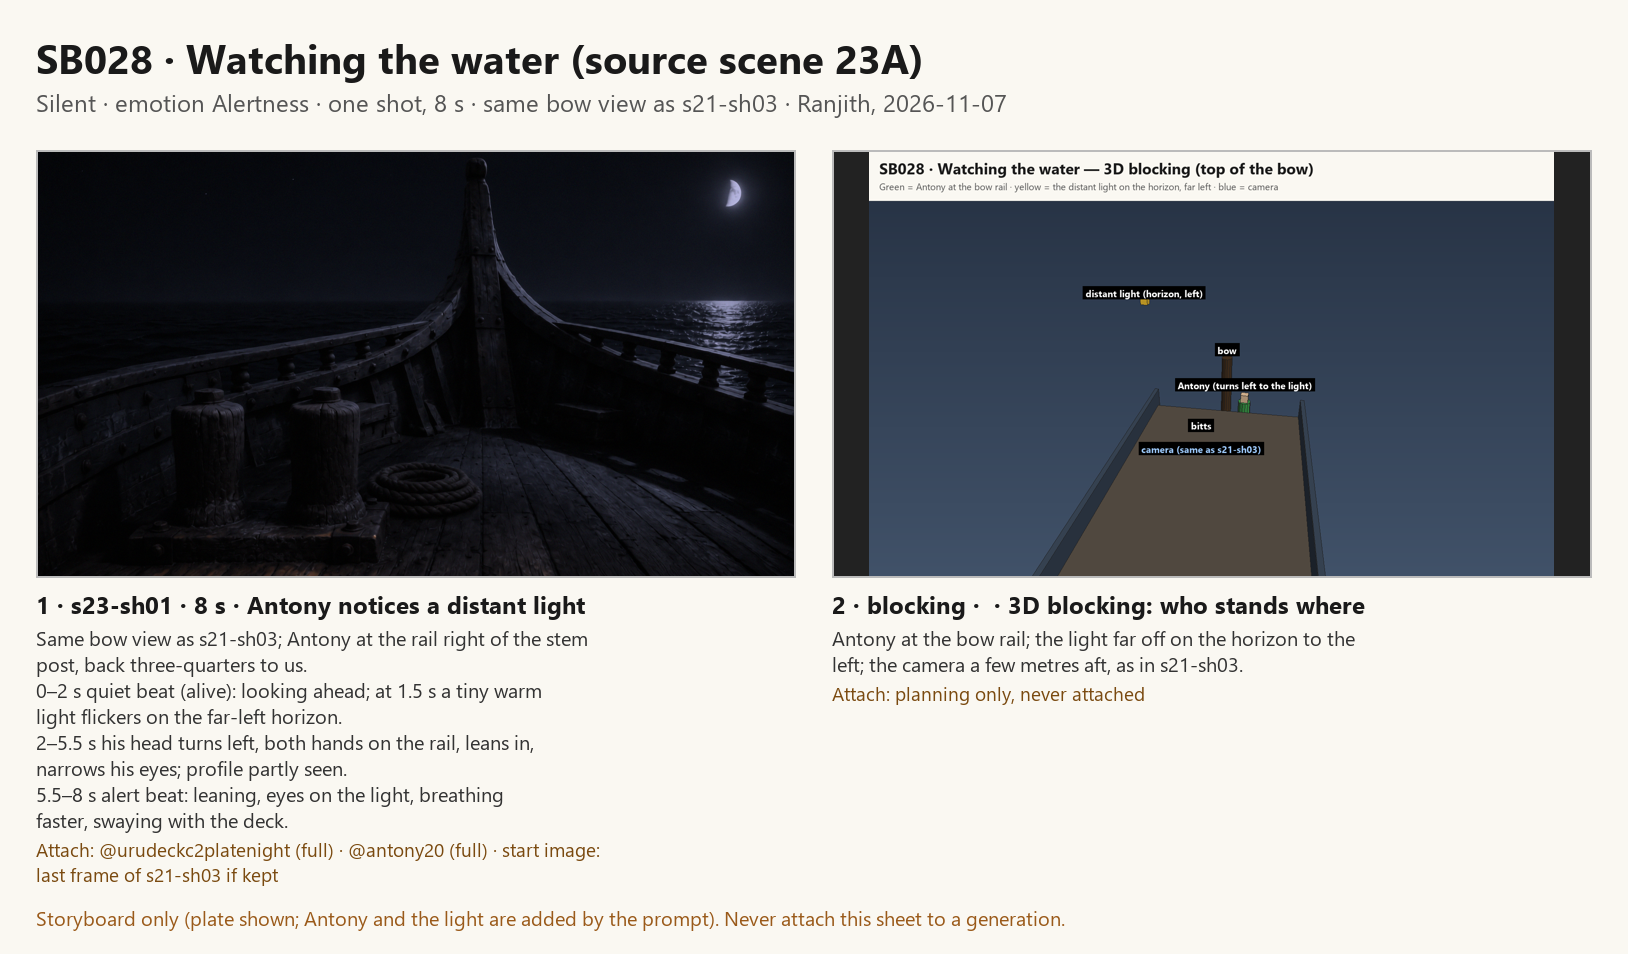
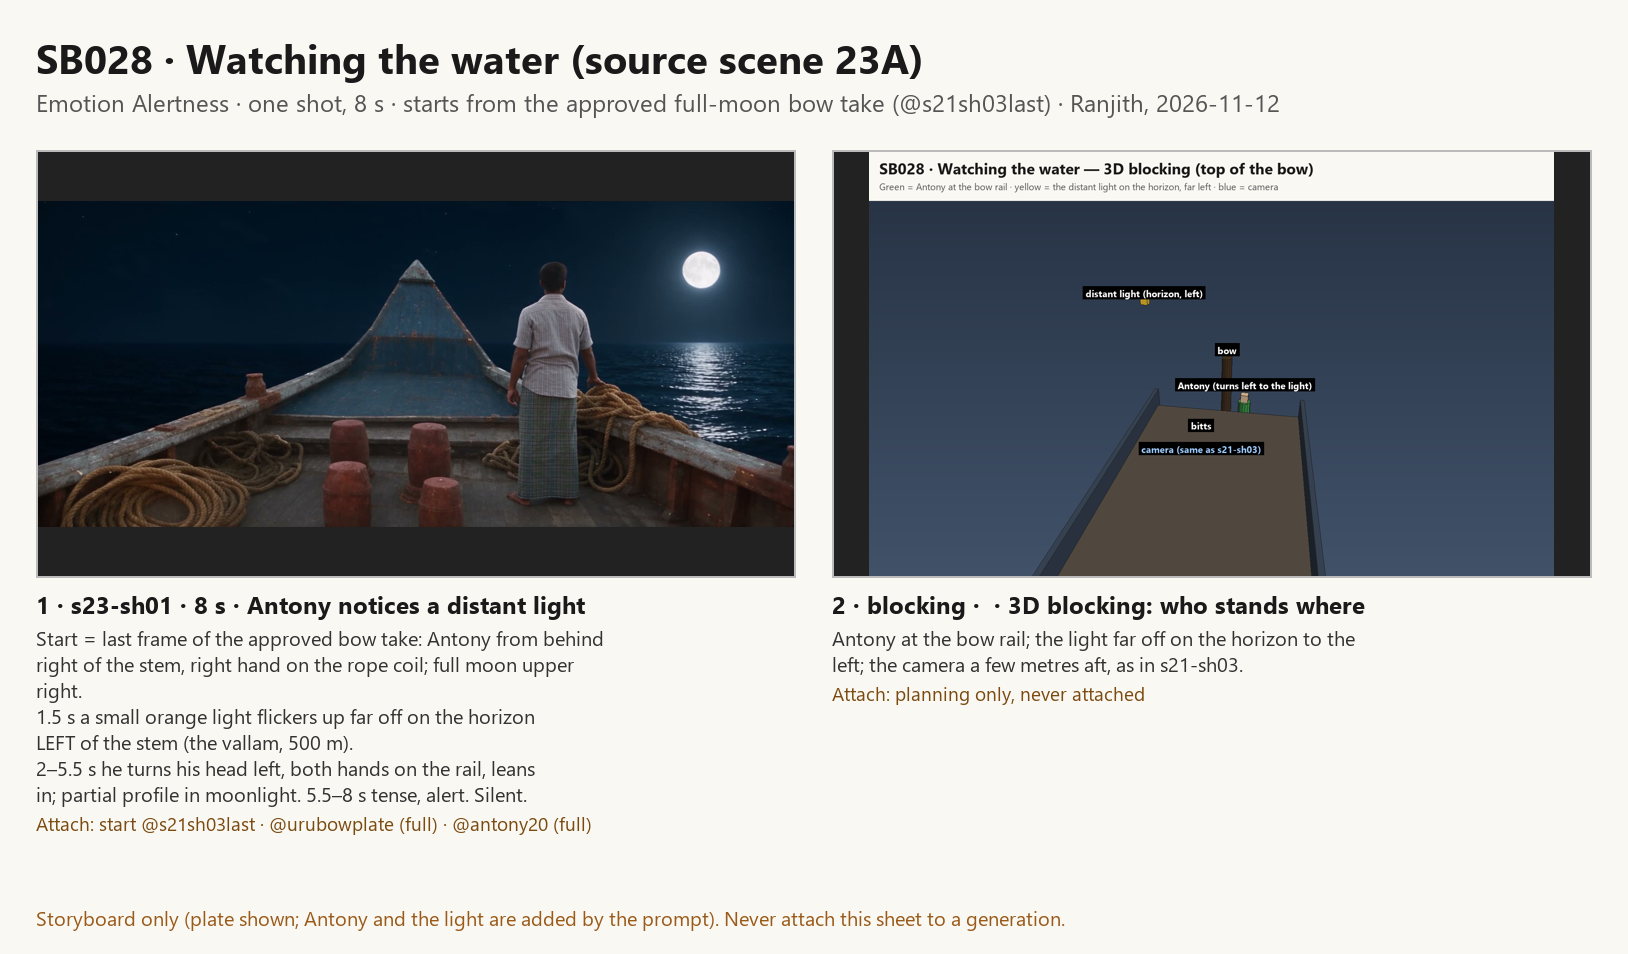
Ranjith: shot: s23-sh01 v3 (from the approved bow take)

diff --git a/scenes/showreel/s23-sh01.md b/scenes/showreel/s23-sh01.md
@@ -1,71 +1,79 @@
-# Shot s23-sh01 · SB028 Watching the water: Antony notices a distant light (8 s, silent) — v2
-Status: **ready, proposal** (v2, full-moon redo, Ranjith 2026-11-12; v1 kept in `retired/s23-sh01-v1.md`). Start images come from the new full-moon takes.
+# Shot s23-sh01 · SB028 Watching the water: Antony notices a distant light (8 s, silent) — v3
+Status: **ready, proposal** (v3, Ranjith 2026-11-12: starts from the last frame of his approved full-moon bow take; v2 kept in `retired/s23-sh01-v2.md`). QA 90.
 Storyboard: SB028 · source scene 23A · emotion "Alertness" (silent shot, no tag) · storyboard `storyboards/sb028-storyboard.png` (with 3D blocking)
 Created by: Ranjith, 2026-11-07
-Camera position: urudeck-c2-bow-night (same as s21-sh03)
-References: @urubowplate (full), @antony20 (full)
-Reference sweep (left out, and why): @aashaan and the sleepers: not in this view (L27). @antonybag: not on him on night watch. @uru: its own bow (L51). Start image: the last frame of the approved s21-sh03 take if you have it (same camera, L52).
-Follows: s21-sh03 v2 (approved: Antony on watch at the bow). Next: SB029, the distant light is a small boat burning.
+Camera position: urudeck-c2-bow-night (same as the s21-sh03 full-moon take), locked
+References: start image = `approved/s21-sh03-last-fullmoon.jpg` (@s21sh03last, required, L52) · @urubowplate (full) · @antony20 (full)
+Reference sweep (left out, and why): @urudeckc2platenight, @urudeckc2platefullmoon: retired bows (L143). @burningvallamnomoon: at this first moment only a small flicker on the horizon; attached from s23-sh02 when it reads as a boat. @aashaan and the sleepers: aft, behind the camera (L27). @antonybag: not on him on night watch.
+Follows: s21-sh03 full-moon take ("Antony keeps watch at the bow by moonlight", approved). Next: s23-sh02 (SB029, the light is a burning boat; slow push-in).
 
 ## Prompt
 ```
 SCENE
-Late at night under a full moon, 1998, on the open sea, at the bow of the wooden cargo uru. One continuous shot. Antony is keeping watch at the bulwark when a tiny warm light appears far off on the moonlit horizon at the left. He notices it, turns his head toward it and leans forward to look, alert. Nobody speaks.
+Full-moon night, 1998, the open sea off Kerala, at the bow of our wooden cargo uru. One continuous shot, 8 seconds, carrying straight on from the start image: same camera, same bow, same moon, seconds later. Antony is keeping watch at the bow when, far off on the horizon at the LEFT, a small warm orange light flares up. He notices it, turns his head toward it and leans forward over the rail to look, alert. Nobody speaks.
+
+MEMORY (the same night in every shot; nothing changes unless this block says so)
+Place: our bow exactly as on @urubowplate: the closed blue-painted triangular bow deck rising to the pointed stem, its paint worn and rust-streaked; low blue bulwarks with a flat weathered rail and red-brown posts; four red-brown mooring bitts in pairs in the foreground; heavy coils of golden coir rope on the deck at the left and on the right-hand bulwark.
+Light: a clear full-moon night; a bright, perfectly round full moon high at the upper RIGHT, its silver path glittering on the deep blue sea at the right. Deep navy sky with a few stars, a deep blue sea; cool silver-blue moonlight across the deck so wood, rope, skin and cloth read clearly, soft moon shadows. Blue and readable, never black, never grey.
+People: Antony: 24, lean, sun-browned, short black hair; grey-beige short-sleeve shirt with thin vertical stripes, green-grey checked mundu, barefoot, bare wrists. Alone at the bow, one of him, never a copy or a stranger.
+Fire: one small fishing vallam starting to burn 500 m away, ahead and to the LEFT of the uru: at first only a small orange flicker low on the horizon, growing into small but clear flames on a low dark hull, never a star-like dot, never close.
+NOW: Antony stands at the right-hand bulwark just right of the stem, his right hand resting on the rope coil on the rail, his back to the camera, looking straight ahead; the crew asleep aft and Aashaan at the wheel, behind the camera, out of this view; tired but awake, at ease.
 
 ACTIVE REFERENCES
-@urubowplate (0.0s–8.0s, full): our bow exactly as on this plate: the closed blue-painted triangular bow deck rising to the pointed stem, low blue bulwarks with red-brown posts, red-brown mooring bitts in pairs, big coir rope coils, the mast at the left with a hurricane lantern at its foot, the deep blue sea, a deep navy sky; the round full moon high on the right just beyond the frame edge, its silver path on the water at the right. 100% matches the reference.
-@antony20 (0.0s–8.0s, full): Antony, 24, lean, sun-browned, short black hair; exactly the reference clothes: short-sleeve lavender-grey and white striped shirt and grey-green checked mundu, never a plain white shirt or trousers; thin silver chain, barefoot. 100% matches the reference.
+Start image (0.0s): the exact first frame: the last frame of the previous shot. Same bow, same stem, same bitts and rope coils, Antony in the same place and pose, the same moon in the same place. 100% matches the reference.
+@urubowplate (0.0s–8.0s, full): our bow exactly as in the reference and as in MEMORY. 100% matches the reference.
+@antony20 (0.0s–8.0s, full): Antony; his face only as a partial profile when he turns; clothes exactly as in MEMORY. 100% matches the reference.
 
 WHAT IS IN FRAME
-Only the bow, the pointed stem, the bulwarks, the bitts and coiled rope, the deep blue sea and horizon, the moon, a tiny distant warm light on the horizon at the left, and Antony. Every frame looks like the film itself, with nothing from the making of it. No lettering anywhere.
-
-THE BOW (0.0s–8.0s)
-Seen from the foredeck a few metres aft of the bow, at standing height, looking forward, exactly as in the reference and as in the previous shot. Antony stands at the bulwark on the right of the pointed stem, his back three-quarters to the view, his left hand on the rail. Far away on the horizon at the LEFT of the pointed stem, a single tiny warm orange point of light, no bigger than a star, flickering; nothing else of it can be made out.
+Only the bow: the blue triangular bow deck and pointed stem in the centre, the bitts and rope coils in the foreground, the bulwarks running to the stem on both sides; the deep blue sea to the horizon; the full moon upper right with its silver path; Antony at the right-hand bulwark; and, from 1.5s, the small orange light far off on the horizon LEFT of the stem. Nothing else on the water. No lettering anywhere.
 
 FIRST FRAME
-Antony at the bulwark, back three-quarters to the view, left hand on the rail, looking straight ahead at the sea; the horizon at the left still dark.
+The start image exactly: Antony from behind at the right-hand bulwark right of the stem, right hand on the rope coil; the horizon at the left still dark and empty.
 
 FORMAT MODE
 One continuous shot; the camera does not cut on its own. The video runs the full 8 seconds.
 
 OPTICS
-WS 63°, natural depth of field: Antony, the pointed stem and the horizon with the tiny light all readable.
+WS about 63°, exactly the framing of the start image; natural depth of field: Antony, the stem, the horizon and the far light all readable.
 
 CAMERA
-A locked-off, perfectly steady view at standing height, rising and falling very gently with the swell, level horizon.
+Locked off at standing height exactly as in the start image; the camera rides with the boat, so the bow stays steady in the frame and only the sea and the moon's path move; level horizon.
 
 ACTION
-0.0s to 2.0s: A quiet beat, never frozen: Antony looks out ahead, breathing in his shoulders, swaying gently with the roll, his weight shifting on his bare feet; at about 1.5s the tiny warm light flickers up on the horizon at the left.
-2.0s to 5.5s: He catches it: his head turns to the left toward the light and his body follows, his right hand joining his left on the rail; he leans forward a little, his head tilting, narrowing his eyes, his profile turning partly into view, the light flickering and steadying.
-5.5s to 8.0s: A quiet, alert beat: he stays leaning on the rail, eyes fixed on the distant light, breathing a little faster, his shoulders tense, swaying with the deck; he keeps living the whole time.
+0.0s to 1.5s: A quiet beat, never frozen: Antony looks out ahead, breathing in his shoulders, swaying gently with the swell, his weight shifting on his bare feet.
+1.5s: Far off on the horizon at the LEFT of the stem a small warm orange light flickers up, low on the water.
+2.0s to 5.5s: He catches it: his head turns to the left toward the light and his body follows, his left hand joining his right on the rail; he leans forward a little, narrowing his eyes, his face turning into a partial profile, lit silver from the moon on the right; the light flickers, steadies and grows into small flames.
+5.5s to 8.0s: A tense, alert beat: he stays leaning on the rail, eyes fixed on the far light, breathing faster, shoulders tight, swaying with the deck; alive the whole time.
 
 PERFORMANCE
 Alertness: a tired watchman suddenly awake; curiosity turning to unease, all in the body and a half-seen profile. Natural and loose, never stiff, never a statue, never theatrical.
 
 PHYSICS
-The bow rises and falls on the gentle swell; his shirt and mundu stir in the night breeze; the distant light flickers and sways with the swell, sometimes dipping behind a wave; the moon's path shimmers on the water.
+The sea moves; the moon's path shimmers and breaks on the swell; his shirt and mundu stir in the night breeze; the far light flickers and dips behind the swell, then shows again.
 
 LIGHTING
-A clear full-moon night: cool silver-blue full-moon light from the full moon high on the right, a thin rim on Antony's right shoulder and hair; the deck in soft blue moon shadow; the distant light only a tiny warm point on the horizon that lights nothing near. No glossy or polished look. Blue and readable, never black, never grey.
+As in MEMORY: silver-blue moonlight from the upper right on the blue bow deck, the bitts, the rope and Antony's right side and hair; soft moon shadows falling to the left; the far fire a small warm point of orange that lights nothing near.
 
 AUDIO
-Sound effects only — natural on-location sound, the soundtrack carries no music. No music at all: no score, no background music, no song, no humming, and no cinematic sound design: no riser, no whoosh, no swell, no rumble, no transition sound. Ambient at a steady level that does not build. No spoken words and no voices.
-0.0s–8.0s: the bow cutting through the swell, water hissing along the hull, the pointed stem creaking, a soft breeze, the faint creak of the rigging behind.
-2.0s–5.5s: his hands sliding on the wooden rail; his breath catching once.
+Sound effects only — natural on-location sound, the soundtrack carries no music. No music at all: no score, no background music, no song, no humming, and no cinematic sound design: no riser, no whoosh, no swell, no rumble, no transition sound. Ambient at a steady level that does not build. No spoken words and no voices; every mouth stays closed.
+0.0s–8.0s: the bow cutting through the swell, water hissing along the hull, the bulwark creaking, a soft breeze. 2.0s–5.5s: his hands sliding on the rail and rope; his breath catching once.
 
 STYLE
-Photoreal 1998 Kerala period feature film. Shot on a Sony Venice 2 full-frame digital cinema camera: very wide dynamic range that holds the full moon and the blue night in one frame; clean, low-noise shadows; soft, gradual highlight roll-off; accurate, natural colour with rich, true skin tones; gentle filmic contrast; fine, organic texture; no over-sharpening, no glossy or video look. Cool, dark, natural moonlit night palette.
+Photoreal 1998 Kerala period feature film. Shot on a Sony Venice 2 full-frame digital cinema camera: very wide dynamic range that holds the bright moon and the blue night deck in one frame; clean, low-noise shadows; soft, gradual highlight roll-off; accurate, natural colour with rich, true skin tones; gentle filmic contrast; fine, organic texture; no over-sharpening, no glossy or video look. Deep blue full-moon night palette.
 
 POSITIVE LOCKS
-Antony alone at the bow, seen from behind three-quarters, his profile turning partly into view only as he looks left at the light, never looking at the view; moving naturally the whole shot, never frozen. The distant light stays a tiny point on the horizon at the left; nothing else of it is seen. The moon stays high on the right. Nobody speaks. Runs the full 8 seconds.
+The start image exactly: same bow, same bitts, same rope coils, same moon. Antony alone at the right-hand bulwark, seen from behind, his profile turning partly into view only as he looks left; never looking at the camera; moving naturally, never frozen. The far light stays small and far on the horizon LEFT of the stem, 500 m away. The moon stays upper right. Nobody speaks. Runs the full 8 seconds.
 ```
 
 ## Settings
-**Duration: set the platform to 8 s.** 21:9 · no dialogue · no emotion tag. Start image: last frame of the approved s21-sh03 take (same camera), if available.
+- Duration **8 s** (L71) · 21:9 · no dialogue · remove every other attachment first (L88). Attach folder: `attach/s23-sh01/`.
+- Start image: `@s21sh03last` (last frame of the approved bow take). Attach: `@urubowplate` · `@antony20`.
+- QA 90. Risks: the far light coming close; his hand swap (right hand on the rope at the start, as in the take).
 
 ## Generation results
 - v1 [approved] (2026-11-07, Ranjith) came out well: the light appears far left, Antony turns and leans in, alive. The platform laid a low, intriguing music cue under the moment he sees the light (despite the no-music audio block) and Ranjith liked it (W18).
 - (none yet)
 
 ## History
+- v3 (2026-11-12): Ranjith: starts from the last frame of his approved full-moon bow take (Antony right of the stem, right hand on the rope coil, moon upper right); MEMORY block; the far light is the burning vallam at 500 m, a small flicker growing to small clear flames (L150 distance note); written in full detail.
 - v2 (2026-11-12): Ranjith: full-moon redo (SB027–SB032) in the look of his reference video: moon placed by the night sheet (ahead-right of the bow, L142), blue readable light, the bow is @urubowplate (L143), plates swapped to the full-moon IDs. Action, positions, lines and timing unchanged (L114). A start image means the last frame of the NEW full-moon take of the shot before.

diff --git a/scenes/showreel/retired/s23-sh01-v2.md b/scenes/showreel/retired/s23-sh01-v2.md
@@ -1,0 +1,71 @@
+# Shot s23-sh01 · SB028 Watching the water: Antony notices a distant light (8 s, silent) — v2
+Status: **ready, proposal** (v2, full-moon redo, Ranjith 2026-11-12; v1 kept in `retired/s23-sh01-v1.md`). Start images come from the new full-moon takes.
+Storyboard: SB028 · source scene 23A · emotion "Alertness" (silent shot, no tag) · storyboard `storyboards/sb028-storyboard.png` (with 3D blocking)
+Created by: Ranjith, 2026-11-07
+Camera position: urudeck-c2-bow-night (same as s21-sh03)
+References: @urubowplate (full), @antony20 (full)
+Reference sweep (left out, and why): @aashaan and the sleepers: not in this view (L27). @antonybag: not on him on night watch. @uru: its own bow (L51). Start image: the last frame of the approved s21-sh03 take if you have it (same camera, L52).
+Follows: s21-sh03 v2 (approved: Antony on watch at the bow). Next: SB029, the distant light is a small boat burning.
+
+## Prompt
+```
+SCENE
+Late at night under a full moon, 1998, on the open sea, at the bow of the wooden cargo uru. One continuous shot. Antony is keeping watch at the bulwark when a tiny warm light appears far off on the moonlit horizon at the left. He notices it, turns his head toward it and leans forward to look, alert. Nobody speaks.
+
+ACTIVE REFERENCES
+@urubowplate (0.0s–8.0s, full): our bow exactly as on this plate: the closed blue-painted triangular bow deck rising to the pointed stem, low blue bulwarks with red-brown posts, red-brown mooring bitts in pairs, big coir rope coils, the mast at the left with a hurricane lantern at its foot, the deep blue sea, a deep navy sky; the round full moon high on the right just beyond the frame edge, its silver path on the water at the right. 100% matches the reference.
+@antony20 (0.0s–8.0s, full): Antony, 24, lean, sun-browned, short black hair; exactly the reference clothes: short-sleeve lavender-grey and white striped shirt and grey-green checked mundu, never a plain white shirt or trousers; thin silver chain, barefoot. 100% matches the reference.
+
+WHAT IS IN FRAME
+Only the bow, the pointed stem, the bulwarks, the bitts and coiled rope, the deep blue sea and horizon, the moon, a tiny distant warm light on the horizon at the left, and Antony. Every frame looks like the film itself, with nothing from the making of it. No lettering anywhere.
+
+THE BOW (0.0s–8.0s)
+Seen from the foredeck a few metres aft of the bow, at standing height, looking forward, exactly as in the reference and as in the previous shot. Antony stands at the bulwark on the right of the pointed stem, his back three-quarters to the view, his left hand on the rail. Far away on the horizon at the LEFT of the pointed stem, a single tiny warm orange point of light, no bigger than a star, flickering; nothing else of it can be made out.
+
+FIRST FRAME
+Antony at the bulwark, back three-quarters to the view, left hand on the rail, looking straight ahead at the sea; the horizon at the left still dark.
+
+FORMAT MODE
+One continuous shot; the camera does not cut on its own. The video runs the full 8 seconds.
+
+OPTICS
+WS 63°, natural depth of field: Antony, the pointed stem and the horizon with the tiny light all readable.
+
+CAMERA
+A locked-off, perfectly steady view at standing height, rising and falling very gently with the swell, level horizon.
+
+ACTION
+0.0s to 2.0s: A quiet beat, never frozen: Antony looks out ahead, breathing in his shoulders, swaying gently with the roll, his weight shifting on his bare feet; at about 1.5s the tiny warm light flickers up on the horizon at the left.
+2.0s to 5.5s: He catches it: his head turns to the left toward the light and his body follows, his right hand joining his left on the rail; he leans forward a little, his head tilting, narrowing his eyes, his profile turning partly into view, the light flickering and steadying.
+5.5s to 8.0s: A quiet, alert beat: he stays leaning on the rail, eyes fixed on the distant light, breathing a little faster, his shoulders tense, swaying with the deck; he keeps living the whole time.
+
+PERFORMANCE
+Alertness: a tired watchman suddenly awake; curiosity turning to unease, all in the body and a half-seen profile. Natural and loose, never stiff, never a statue, never theatrical.
+
+PHYSICS
+The bow rises and falls on the gentle swell; his shirt and mundu stir in the night breeze; the distant light flickers and sways with the swell, sometimes dipping behind a wave; the moon's path shimmers on the water.
+
+LIGHTING
+A clear full-moon night: cool silver-blue full-moon light from the full moon high on the right, a thin rim on Antony's right shoulder and hair; the deck in soft blue moon shadow; the distant light only a tiny warm point on the horizon that lights nothing near. No glossy or polished look. Blue and readable, never black, never grey.
+
+AUDIO
+Sound effects only — natural on-location sound, the soundtrack carries no music. No music at all: no score, no background music, no song, no humming, and no cinematic sound design: no riser, no whoosh, no swell, no rumble, no transition sound. Ambient at a steady level that does not build. No spoken words and no voices.
+0.0s–8.0s: the bow cutting through the swell, water hissing along the hull, the pointed stem creaking, a soft breeze, the faint creak of the rigging behind.
+2.0s–5.5s: his hands sliding on the wooden rail; his breath catching once.
+
+STYLE
+Photoreal 1998 Kerala period feature film. Shot on a Sony Venice 2 full-frame digital cinema camera: very wide dynamic range that holds the full moon and the blue night in one frame; clean, low-noise shadows; soft, gradual highlight roll-off; accurate, natural colour with rich, true skin tones; gentle filmic contrast; fine, organic texture; no over-sharpening, no glossy or video look. Cool, dark, natural moonlit night palette.
+
+POSITIVE LOCKS
+Antony alone at the bow, seen from behind three-quarters, his profile turning partly into view only as he looks left at the light, never looking at the view; moving naturally the whole shot, never frozen. The distant light stays a tiny point on the horizon at the left; nothing else of it is seen. The moon stays high on the right. Nobody speaks. Runs the full 8 seconds.
+```
+
+## Settings
+**Duration: set the platform to 8 s.** 21:9 · no dialogue · no emotion tag. Start image: last frame of the approved s21-sh03 take (same camera), if available.
+
+## Generation results
+- v1 [approved] (2026-11-07, Ranjith) came out well: the light appears far left, Antony turns and leans in, alive. The platform laid a low, intriguing music cue under the moment he sees the light (despite the no-music audio block) and Ranjith liked it (W18).
+- (none yet)
+
+## History
+- v2 (2026-11-12): Ranjith: full-moon redo (SB027–SB032) in the look of his reference video: moon placed by the night sheet (ahead-right of the bow, L142), blue readable light, the bow is @urubowplate (L143), plates swapped to the full-moon IDs. Action, positions, lines and timing unchanged (L114). A start image means the last frame of the NEW full-moon take of the shot before.

diff --git a/scenes/showreel/attach/s23-sh01/README.md b/scenes/showreel/attach/s23-sh01/README.md
@@ -1,0 +1,9 @@
+# s23-sh01 v3 · what to attach (8 s, 21:9, silent)
+
+| # | File | Platform ID | How |
+|---|---|---|---|
+| 01 | 01-START-s21sh03last.jpg | `@s21sh03last` | **start image** (last frame of the approved bow take) |
+| 02 | 02-urubowplate.png | `@urubowplate` | full |
+| 03 | 03-antony20.jpg | `@antony20` | full |
+
+Remove every other attachment first (L88). Prompt: `scenes/showreel/s23-sh01.md`.
